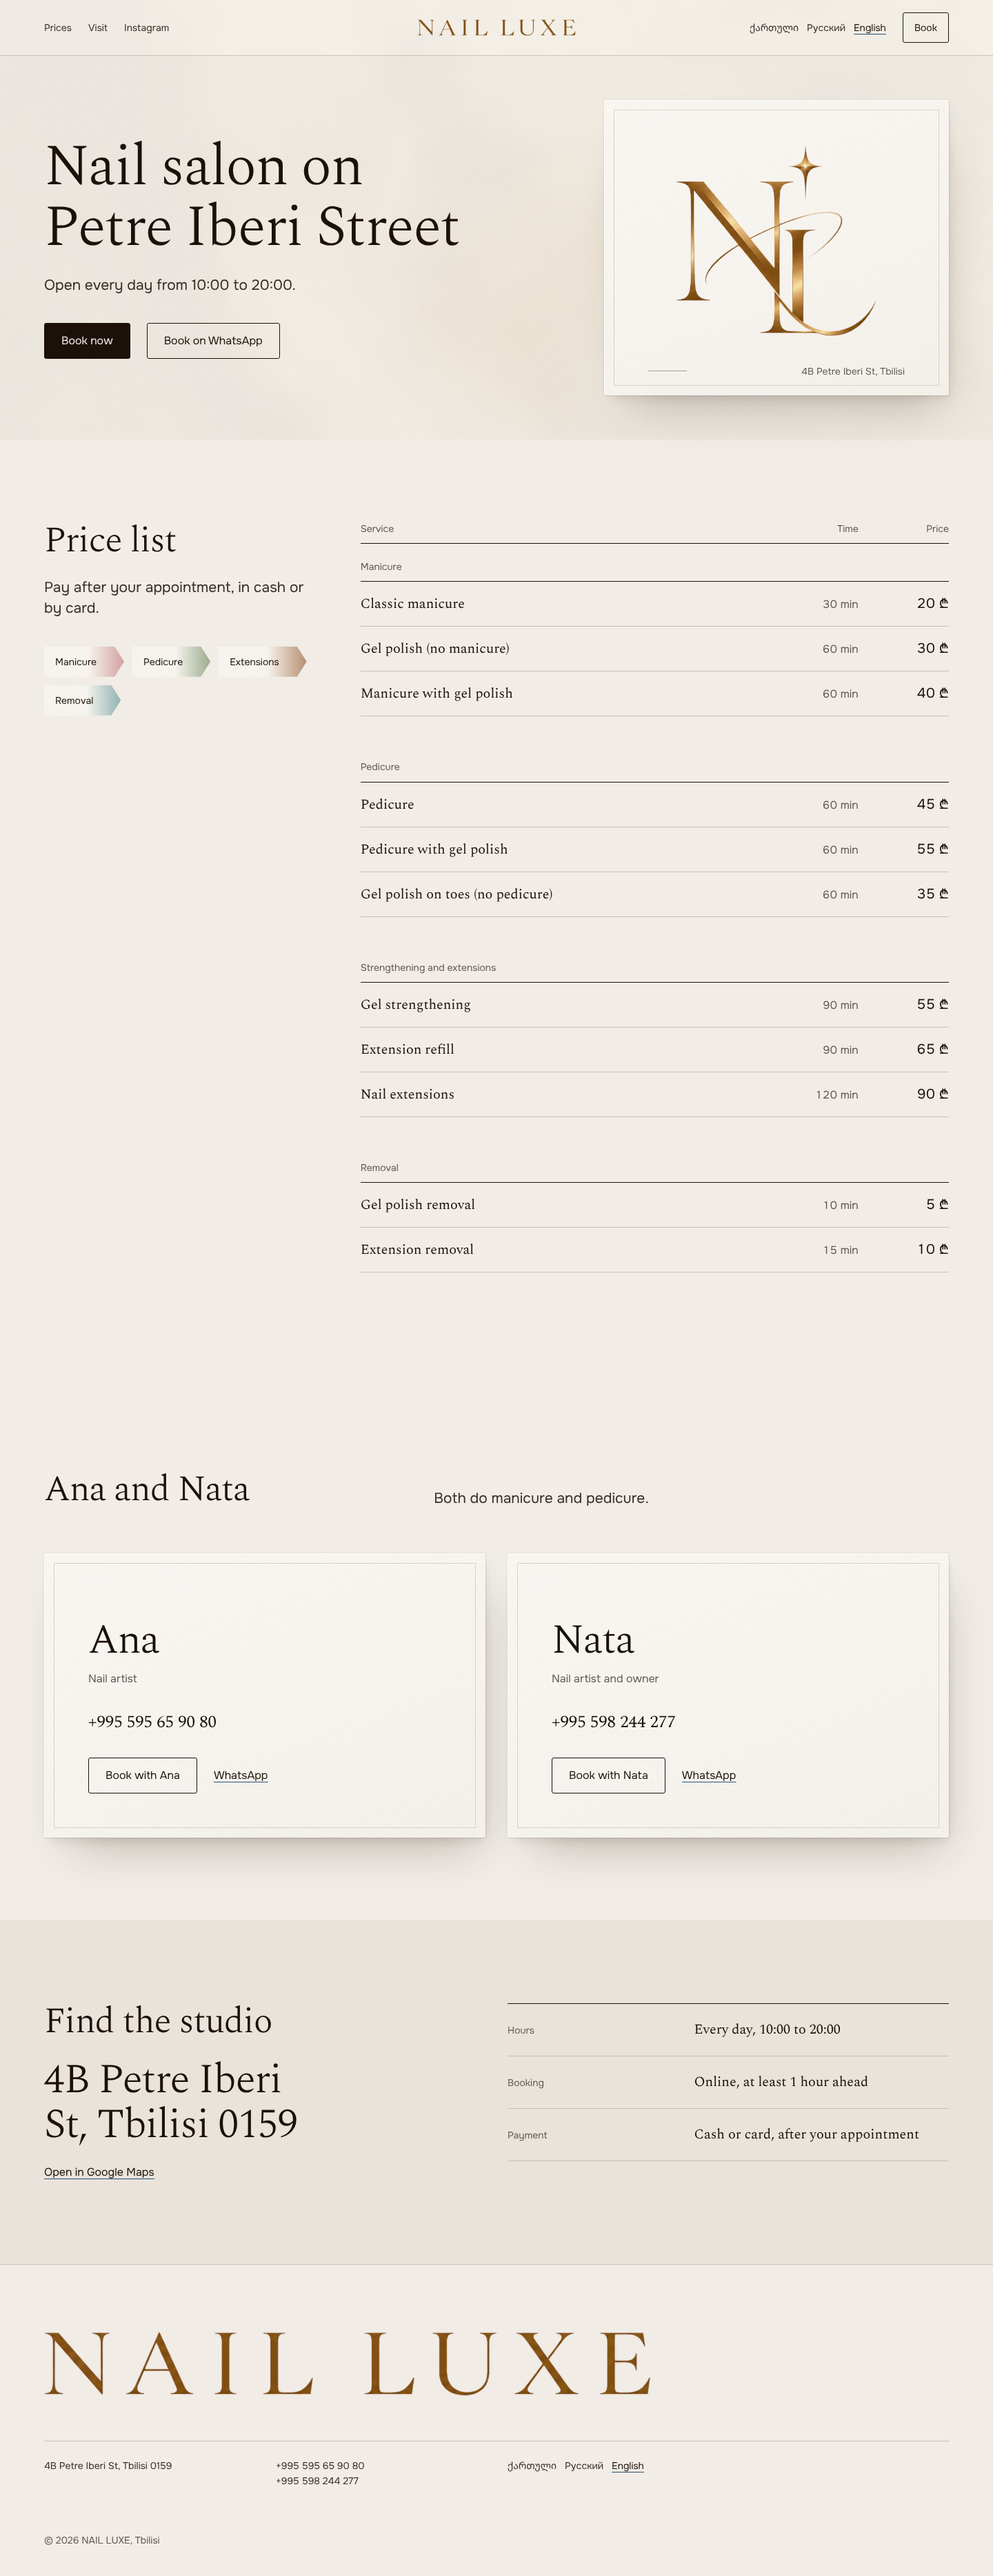
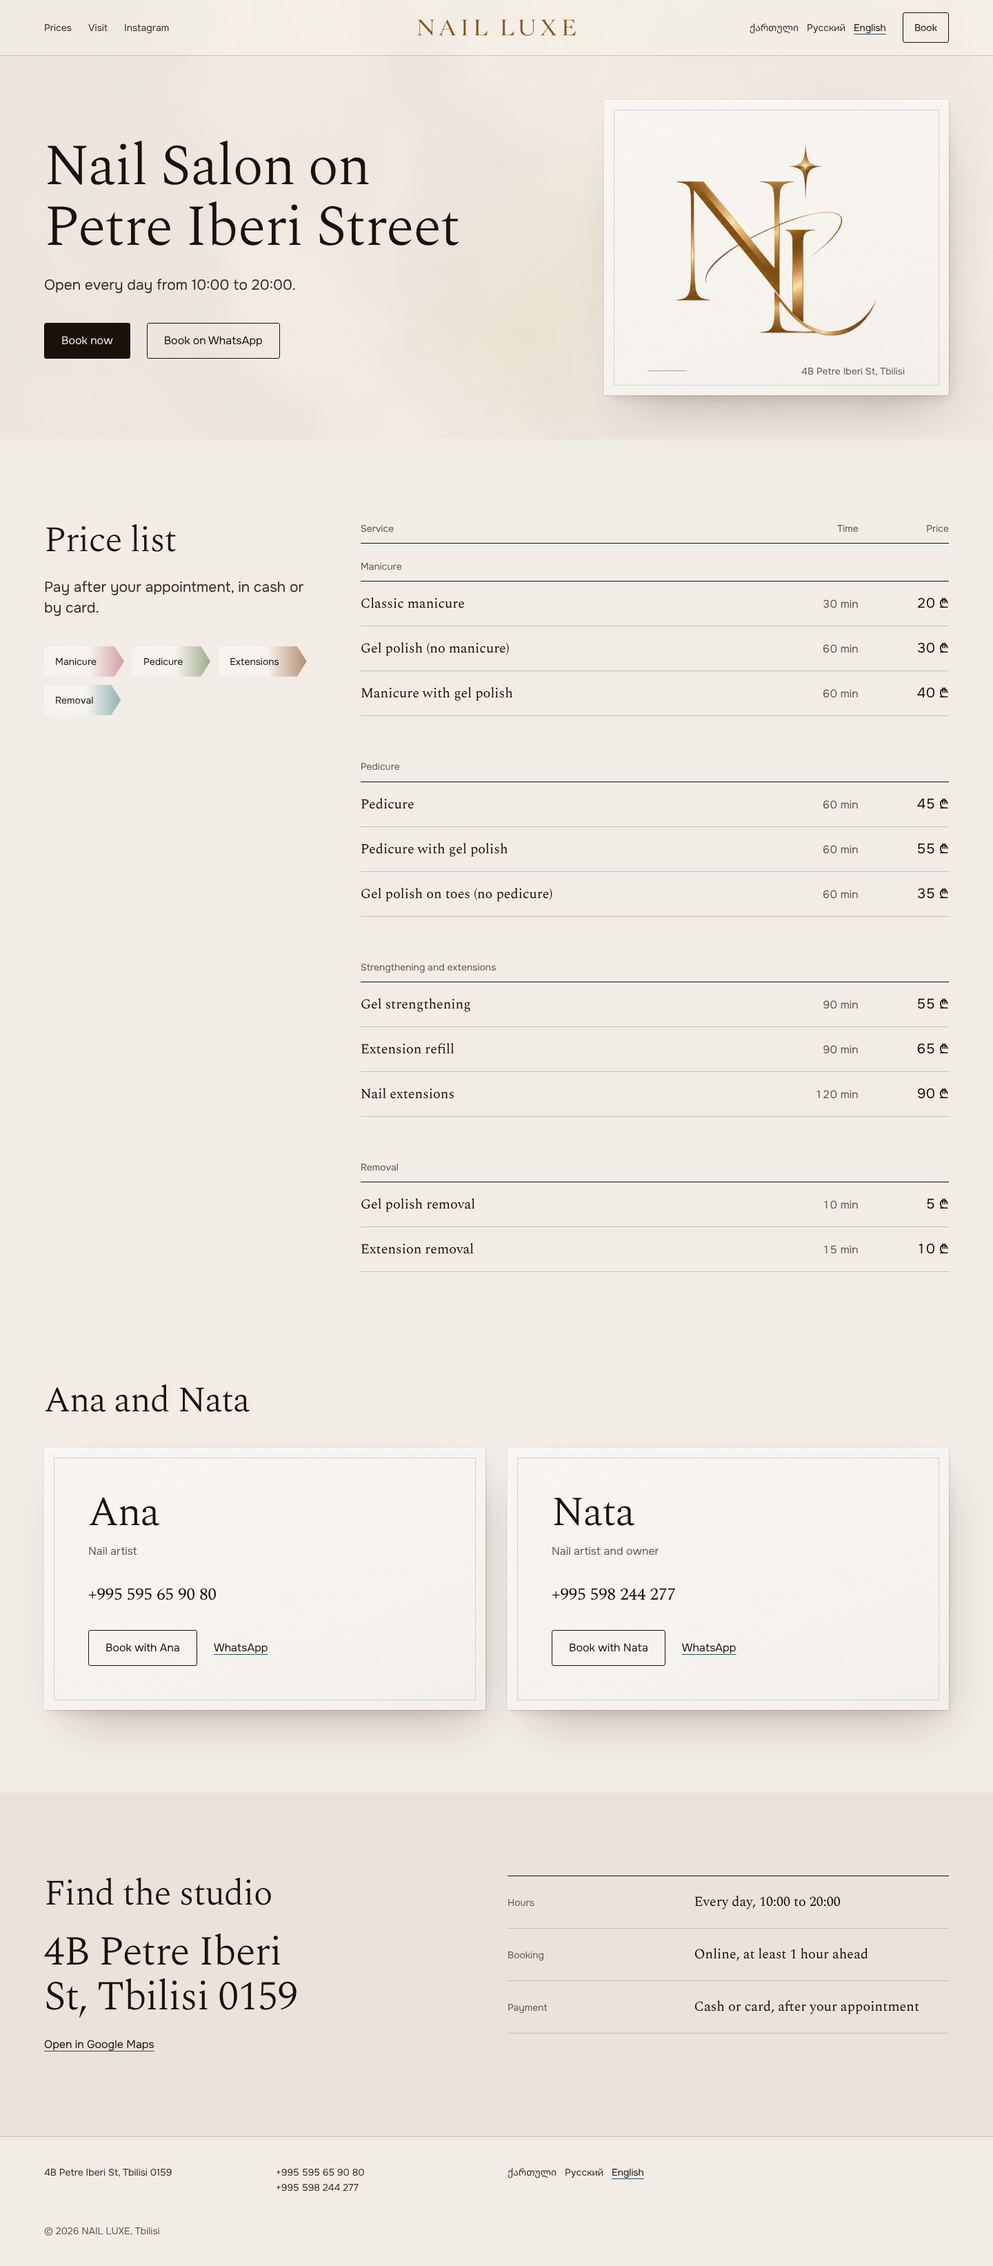
Headline wording, drop footer wordmark and artists line, tighten spacing
- Headline: 'Nail Salon on Petre Iberi Street'; Georgian 'მანიკურის სალონი
  პეტრე იბერის ქუჩაზე'
- Footer: remove the large wordmark (the logo stays in the top bar)
- Artists: remove the 'both do manicure and pedicure' line
- Tighter gaps around the price list, artists and footer

Claude-Session: https://claude.ai/code/session_016s4ce4QxNwZw59QZE1qPvv

diff --git a/site/assets/css/site.css b/site/assets/css/site.css
@@ -1,5 +1,5 @@
 /* Hallmark · shape: Catalogue-led one-pager (draw swap: Long Document hides the booking action; job is book) · genre: editorial · theme: Atelier (deal 1/3, seed nail-luxe-luxury-nail-592d·a6c207c2·2026-11-07·r0) · job: book · draw: 41c783
- * hero: Banner · nav: masthead · footer: mast · imagery: none, the user's monogram as the hero print; photo slots wait for the studio's own photographs · signature: the NL monogram matted on cotton stock beside the head, polish-stained tabs indexing the price list
+ * hero: Banner · nav: masthead · footer: colophon block (address, phones, languages; the wordmark stays in the masthead only) · imagery: none, the user's monogram as the hero print; photo slots wait for the studio's own photographs · signature: the NL monogram matted on cotton stock beside the head, polish-stained tabs indexing the price list
  * axes: light/roman-serif/cool · posture: restrained · contrast: pass · fold: pass · v2.0.0 */
 /* Hallmark · pre-emit critique: P4 H4 E4 S4 R5 V4 · weakest: S, no photographs of the work yet; led with the real monogram and the real price list instead of off-subject library photos */
 /* waive 37: four families because the page is trilingual; Noto Serif/Sans Georgian only cover Georgian glyphs behind Spectral and Onest, one role each */
@@ -66,7 +66,7 @@ h3 { font-weight: var(--serif-small); color: var(--color-ink); }
 .pencil { flex: 0 0 56px; height: 1px; background: var(--color-pencil); opacity: 0.6; }
 
 /* Prices: the head and the strips on four columns, the list on eight */
-.prices { padding-block: var(--section-gap-s) var(--section-gap); }
+.prices { padding-block: var(--section-gap-s) var(--space-2xl); }
 .prices-grid { display: grid; grid-template-columns: minmax(0, 4fr) minmax(0, 8fr); gap: var(--gap-columns); align-items: start; }
 .prices-head { position: sticky; top: var(--space-xl); display: grid; gap: var(--space-lg); }
 .prices-head .lead { max-width: 30ch; }
@@ -87,10 +87,10 @@ h3 { font-weight: var(--serif-small); color: var(--color-ink); }
 .menu tbody:target tr.group th { color: var(--color-ink); }
 
 /* Artists: two cotton cards */
-.artists { padding-block: var(--section-gap) var(--section-gap-s); }
-.split-head { display: grid; grid-template-columns: minmax(0, 5fr) minmax(0, 7fr); gap: var(--gap-columns); align-items: end; margin-bottom: var(--space-2xl); }
+.artists { padding-block: var(--space-3xl) var(--section-gap-s); }
+.artists-head { margin-bottom: var(--space-xl); }
 .artist-grid { display: grid; grid-template-columns: repeat(2, minmax(0, 1fr)); gap: var(--gap-columns); }
-.artist { padding: var(--space-3xl) var(--space-2xl) var(--space-2xl); display: grid; align-content: start; gap: var(--space-sm); min-height: 360px; }
+.artist { padding: var(--space-2xl); display: grid; align-content: start; gap: var(--space-sm); }
 .artist h3 { font-size: var(--text-display-s); font-weight: var(--display-weight); line-height: 1.02; }
 .artist .role { color: var(--color-muted); }
 .phone { margin-top: var(--space-lg); font: var(--serif-small) var(--text-title)/1.2 var(--font-display); font-variant-numeric: tabular-nums; }
@@ -108,12 +108,11 @@ h3 { font-weight: var(--serif-small); color: var(--color-ink); }
 .ruled dd { margin: 0; font: var(--serif-small) var(--text-lg)/1.35 var(--font-display); color: var(--color-ink); }
 
 /* Footer: a mast, the wordmark large over the facts */
-.foot { padding-block: var(--space-3xl) var(--space-xl); border-top: var(--rule-hair) solid var(--color-rule); font-size: var(--text-sm); color: var(--color-ink-2); }
-.foot-mark { width: min(100%, 880px); height: auto; }
-.foot-row { display: grid; grid-template-columns: repeat(4, minmax(0, 1fr)); gap: var(--gap-columns); margin-top: var(--space-2xl); padding-top: var(--space-lg); border-top: var(--rule-hair) solid var(--color-rule); }
+.foot { padding-block: var(--space-xl) var(--space-xl); border-top: var(--rule-hair) solid var(--color-rule); font-size: var(--text-sm); color: var(--color-ink-2); }
+.foot-row { display: grid; grid-template-columns: repeat(4, minmax(0, 1fr)); gap: var(--gap-columns); }
 .foot a { color: var(--color-ink-2); text-decoration: none; }
 .foot a:hover { color: var(--color-ink); text-decoration: underline; text-decoration-color: var(--color-accent); }
-.legal { margin-top: var(--space-2xl); color: var(--color-muted); }
+.legal { margin-top: var(--space-xl); color: var(--color-muted); }
 
 @media (max-width: 60rem) {
   .mast-row { grid-template-columns: auto minmax(0, 1fr); min-height: 64px; }
@@ -121,7 +120,7 @@ h3 { font-weight: var(--serif-small); color: var(--color-ink); }
   .mast-mark { justify-self: start; }
   .mast-end { gap: var(--space-md); }
   .hero { padding-block: var(--space-2xl) var(--space-2xl); }
-  .hero-grid, .prices-grid, .visit-grid, .close-grid, .split-head { grid-template-columns: minmax(0, 1fr); row-gap: var(--space-xl); }
+  .hero-grid, .prices-grid, .visit-grid, .close-grid { grid-template-columns: minmax(0, 1fr); row-gap: var(--space-xl); }
   .print { justify-self: start; width: min(100%, 300px); padding: var(--space-xl) var(--space-xl) var(--space-md); }
   .prices-head { position: static; }
   .foot-row { grid-template-columns: repeat(2, minmax(0, 1fr)); }

diff --git a/site/ka/index.html b/site/ka/index.html
@@ -46,7 +46,7 @@
   <section class="hero air-zone">
     <div class="container hero-grid">
       <div class="hero-text">
-        <h1>ფრჩხილების სალონი პეტრე იბერის ქუჩაზე</h1>
+        <h1>მანიკურის სალონი პეტრე იბერის ქუჩაზე</h1>
         <p class="lead">ღიაა ყოველდღე, 10:00-დან 20:00-მდე.</p>
         <div class="hero-actions">
           <a class="btn btn--primary" href="#" data-pending="fresha">ჩაწერა ახლავე</a>
@@ -99,10 +99,7 @@
 
   <section class="artists" id="artists">
     <div class="container">
-      <div class="split-head">
-        <h2>ანა და ნატა</h2>
-        <p class="lead">ორივე აკეთებს მანიკურს და პედიკურს.</p>
-      </div>
+      <h2 class="artists-head">ანა და ნატა</h2>
       <div class="artist-grid">
       <article class="artist stock">
         <h3>ანა</h3>
@@ -145,7 +142,6 @@
 
 <footer class="foot">
   <div class="container">
-    <img class="foot-mark" src="../assets/brand/wordmark.webp" width="1291" height="139" alt="NAIL LUXE" loading="lazy">
     <div class="foot-row">
       <p>პეტრე იბერის ქ. 4B, თბილისი 0159</p>
       <p><a href="tel:+995595659080">+995 595 65 90 80</a><br><a href="tel:+995598244277">+995 598 244 277</a></p>

diff --git a/site/en/index.html b/site/en/index.html
@@ -46,7 +46,7 @@
   <section class="hero air-zone">
     <div class="container hero-grid">
       <div class="hero-text">
-        <h1>Nail salon on Petre Iberi Street</h1>
+        <h1>Nail Salon on Petre Iberi Street</h1>
         <p class="lead">Open every day from 10:00 to 20:00.</p>
         <div class="hero-actions">
           <a class="btn btn--primary" href="#" data-pending="fresha">Book now</a>
@@ -99,10 +99,7 @@
 
   <section class="artists" id="artists">
     <div class="container">
-      <div class="split-head">
-        <h2>Ana and Nata</h2>
-        <p class="lead">Both do manicure and pedicure.</p>
-      </div>
+      <h2 class="artists-head">Ana and Nata</h2>
       <div class="artist-grid">
       <article class="artist stock">
         <h3>Ana</h3>
@@ -145,7 +142,6 @@
 
 <footer class="foot">
   <div class="container">
-    <img class="foot-mark" src="../assets/brand/wordmark.webp" width="1291" height="139" alt="NAIL LUXE" loading="lazy">
     <div class="foot-row">
       <p>4B Petre Iberi St, Tbilisi 0159</p>
       <p><a href="tel:+995595659080">+995 595 65 90 80</a><br><a href="tel:+995598244277">+995 598 244 277</a></p>

diff --git a/site/ru/index.html b/site/ru/index.html
@@ -99,10 +99,7 @@
 
   <section class="artists" id="artists">
     <div class="container">
-      <div class="split-head">
-        <h2>Ана и Ната</h2>
-        <p class="lead">Обе делают маникюр и педикюр.</p>
-      </div>
+      <h2 class="artists-head">Ана и Ната</h2>
       <div class="artist-grid">
       <article class="artist stock">
         <h3>Ана</h3>
@@ -145,7 +142,6 @@
 
 <footer class="foot">
   <div class="container">
-    <img class="foot-mark" src="../assets/brand/wordmark.webp" width="1291" height="139" alt="NAIL LUXE" loading="lazy">
     <div class="foot-row">
       <p>ул. Петре Ибери, 4B, Тбилиси 0159</p>
       <p><a href="tel:+995595659080">+995 595 65 90 80</a><br><a href="tel:+995598244277">+995 598 244 277</a></p>
